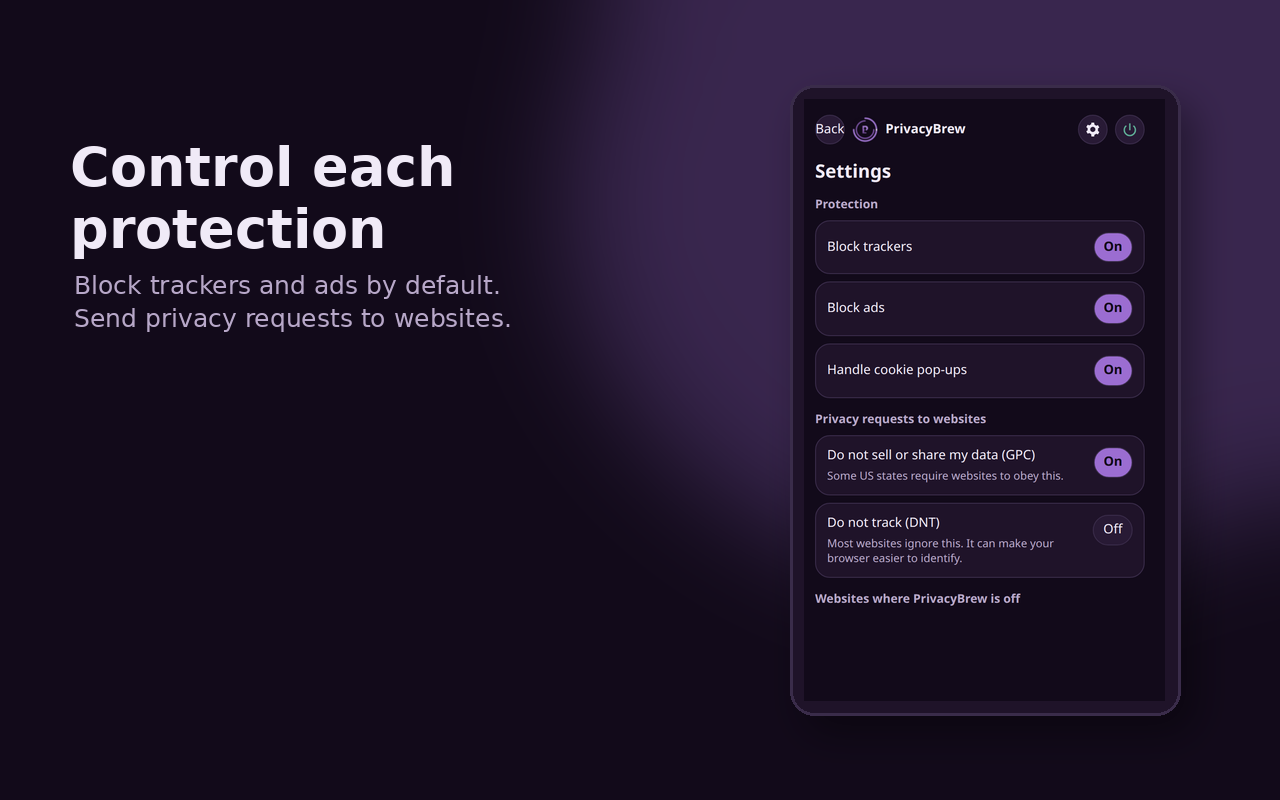
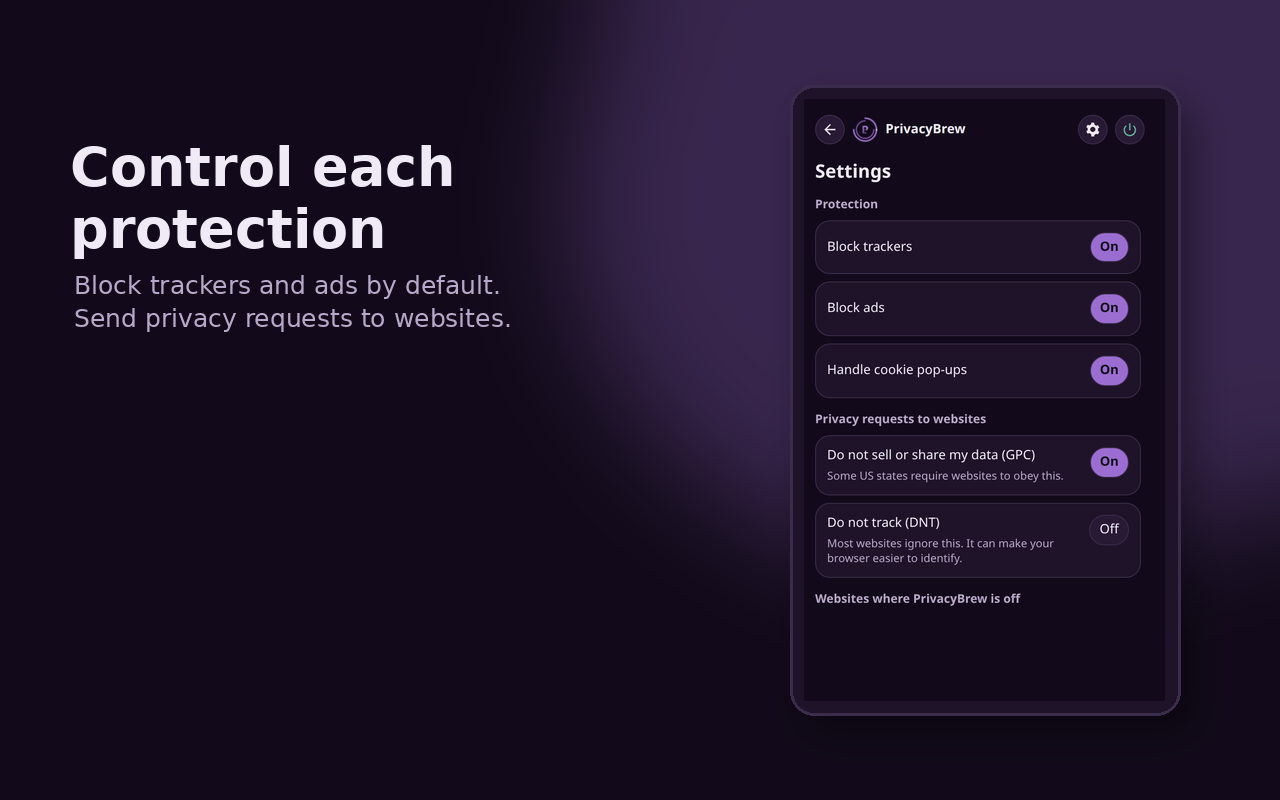
Fix popup layout screenshots and power menu

diff --git a/extension/popup.css b/extension/popup.css
@@ -45,6 +45,9 @@ html, body {
 .status-bar, .wall-banner { display: flex; gap: 8px; align-items: center; margin: 8px 0; padding: 8px; border-radius: 12px; background: var(--panel-2); border: 1px solid var(--border); }
 .wall-banner { border-color: var(--warning); }
 .view { height: 510px; overflow: hidden; }
+#settingsView { overflow: auto; padding-right: 4px; }
+#settingsView::-webkit-scrollbar { width: 8px; }
+#settingsView::-webkit-scrollbar-thumb { background: var(--border); border-radius: 8px; }
 .hero-card, .home-card, .setting-row, .limits, .detail-card { border: 1px solid var(--border); border-radius: 16px; background: var(--panel); padding: 12px; }
 .hero-card { margin: 8px 0; padding: 14px; }
 .hero-card h1 { font-size: 22px; margin: 0 0 4px; overflow: hidden; text-overflow: ellipsis; }
@@ -53,8 +56,8 @@ html, body {
 .status.some { color: var(--accent); }
 .status.high { color: var(--warning); }
 .card-grid { display: grid; grid-template-columns: 1fr 1fr; gap: 8px; }
-.home-card { min-height: 106px; text-align: left; color: var(--text); cursor: pointer; }
-.home-card.wide { grid-column: 1 / -1; min-height: 82px; }
+.home-card { min-height: 112px; text-align: left; color: var(--text); cursor: pointer; }
+.home-card.wide { grid-column: 1 / -1; min-height: 88px; }
 .group-label { display: block; color: var(--text-dim); font-size: 11px; letter-spacing: .05em; text-transform: uppercase; margin-bottom: 3px; }
 .big-number { font-size: 31px; line-height: 1; font-weight: 850; color: var(--text); }
 .big-word { font-size: 16px; font-weight: 750; margin-left: 4px; }
@@ -84,7 +87,28 @@ label { display: block; margin: 14px 0; }
 [hidden] { display: none !important; }
 
 .text-value { font-size: 27px; }
-.app:has(#statusBar:not([hidden])) .home-card { min-height: 94px; }
-.app:has(#wallBanner:not([hidden])) .home-card { min-height: 94px; }
-.app:has(#statusBar:not([hidden])) .home-card.wide, .app:has(#wallBanner:not([hidden])) .home-card.wide { min-height: 68px; }
+.app:has(#statusBar:not([hidden])) .home-card { min-height: 98px; }
+.app:has(#wallBanner:not([hidden])) .home-card { min-height: 98px; }
+.app:has(#statusBar:not([hidden])) .home-card.wide, .app:has(#wallBanner:not([hidden])) .home-card.wide { min-height: 70px; }
 .app:has(#statusBar:not([hidden])) .hero-card, .app:has(#wallBanner:not([hidden])) .hero-card { padding: 10px; margin: 6px 0; }
+.app:has(#statusBar:not([hidden])):has(#wallBanner:not([hidden])) .home-card {
+  min-height: 86px;
+  padding: 9px;
+}
+.app:has(#statusBar:not([hidden])):has(#wallBanner:not([hidden])) .home-card.wide {
+  min-height: 58px;
+}
+.app:has(#statusBar:not([hidden])):has(#wallBanner:not([hidden])) .hero-card {
+  padding: 8px;
+  margin: 5px 0;
+}
+.app:has(#statusBar:not([hidden])):has(#wallBanner:not([hidden])) .privacy-row {
+  margin: 6px 0;
+  padding: 7px;
+}
+.app:has(#statusBar:not([hidden])):has(#wallBanner:not([hidden])) .home-footer {
+  display: none;
+}
+.app:has(#statusBar:not([hidden])):has(#wallBanner:not([hidden])) .privacy-row {
+  display: none;
+}

diff --git a/extension/popup.js b/extension/popup.js
@@ -115,12 +115,14 @@
     text($('homeAdsSub'), `${report.adTrackerCount || 0} ad trackers`);
     text($('homeScriptsNumber'), String(report.outsideScriptCount || 0));
     text($('homeScriptsSub'), `${off ? 0 : (report.outsideScriptBlockedCount || 0)} blocked`);
-    text($('homeCookiesValue'), cookiePopup.status === 'none' ? 'None' : cookiePopup.label.replace(' for you', ''));
+    const cookieWords = { rejected: 'Rejected', hidden: 'Hidden', error: 'Could not handle', none: 'No pop-up' };
+    text($('homeCookiesValue'), cookieWords[cookiePopup.status] || cookiePopup.label || 'No pop-up');
     text($('homeCookiesSub'), `${(report.cookieDomains || []).length} third-party cookie ${plural((report.cookieDomains || []).length, 'website')}`);
     text($('homeFingerprintNumber'), fingerprintCount ? String(fingerprintCount) : 'None');
     text($('homeFingerprintWord'), fingerprintCount ? plural(fingerprintCount, 'method') : '');
     text($('privacyRequestsRow'), `${settings.gpcEnabled ? 'GPC sent' : 'GPC off'} · ${settings.dntEnabled ? 'DNT sent' : 'DNT off'}`);
     $('powerButton').classList.toggle('off', off);
+    text($('sitePowerButton'), report.sitePaused ? 'Turn on on this website' : 'Turn off on this website');
   }
 
   function trackerDetail(report) {
@@ -232,7 +234,9 @@
 
   function renderFeedback() {
     const page = originPath((currentReport && currentReport.url) || '');
-    text($('feedbackPageValue'), page || 'No page address.');
+    const included = $('feedbackPage').checked;
+    text($('feedbackPageValue'), page ? (included ? page : `${page} (not included)`) : 'No page address.');
+    $('feedbackPageValue').classList.toggle('muted', !included);
   }
 
   async function refresh() {
@@ -247,6 +251,7 @@
     for (const button of document.querySelectorAll('[data-detail]')) button.addEventListener('click', () => renderDetail(button.dataset.detail));
     $('settingsButton').addEventListener('click', () => showView('settings'));
     $('feedbackButton').addEventListener('click', () => { renderFeedback(); showView('feedback'); });
+    $('feedbackPage').addEventListener('change', renderFeedback);
     $('backButton').addEventListener('click', () => showView('home'));
     $('privacyRequestsRow').addEventListener('click', () => showView('settings'));
     $('powerButton').addEventListener('click', togglePowerMenu);
@@ -254,6 +259,7 @@
       const submenu = $('forAWhileSubmenu');
       submenu.hidden = !submenu.hidden;
       $('forAWhileButton').setAttribute('aria-expanded', submenu.hidden ? 'false' : 'true');
+      text($('forAWhileButton'), submenu.hidden ? 'Turn off for a while ▸' : 'Turn off for a while ▾');
     });
     document.addEventListener('keydown', (event) => { if (event.key === 'Escape') closePowerMenu(); });
 

diff --git a/extension/popup.html b/extension/popup.html
@@ -9,7 +9,7 @@
 <body>
   <main class="app" aria-live="polite">
     <header class="topbar">
-      <button id="backButton" class="icon-button" type="button" aria-label="Back" hidden>Back</button>
+      <button id="backButton" class="icon-button" type="button" aria-label="Back" title="Back" hidden><svg viewBox="0 0 24 24" aria-hidden="true"><path d="M20 11H7.8l5.6-5.6L12 4 4 12l8 8 1.4-1.4L7.8 13H20v-2Z"/></svg></button>
       <img src="icons/icon-32.png" width="28" height="28" alt="">
       <div class="title-group"><strong>PrivacyBrew</strong></div>
       <button id="settingsButton" class="icon-button" type="button" aria-label="Settings" title="Settings"><svg viewBox="0 0 24 24" aria-hidden="true"><path d="M19.4 13.5c.1-.5.1-1 .1-1.5s0-1-.1-1.5l2-1.5-2-3.5-2.4 1a8 8 0 0 0-2.6-1.5L14 2h-4l-.4 2.5A8 8 0 0 0 7 6L4.6 5l-2 3.5 2 1.5a9 9 0 0 0 0 3l-2 1.5 2 3.5 2.4-1a8 8 0 0 0 2.6 1.5L10 22h4l.4-2.5a8 8 0 0 0 2.6-1.5l2.4 1 2-3.5-2-1.5ZM12 15.5A3.5 3.5 0 1 1 12 8a3.5 3.5 0 0 1 0 7.5Z"/></svg></button>
@@ -17,7 +17,7 @@
     </header>
     <div id="powerMenu" class="menu" hidden>
       <button id="sitePowerButton" type="button">Turn off on this website</button>
-      <button id="forAWhileButton" type="button" aria-expanded="false">Turn off for a while</button>
+      <button id="forAWhileButton" type="button" aria-expanded="false">Turn off for a while ▸</button>
       <div id="forAWhileSubmenu" class="submenu" hidden>
         <button data-temp="15" type="button">15 minutes</button>
         <button data-temp="60" type="button">1 hour</button>

diff --git a/tools/popup_artifacts.py b/tools/popup_artifacts.py
@@ -1,0 +1,98 @@
+#!/usr/bin/env python3
+import base64, contextlib, json, shutil, subprocess, time
+from pathlib import Path
+import websocket
+
+ROOT = Path(__file__).resolve().parents[1]
+EXT = ROOT / 'extension'
+ART = ROOT / 'artifacts'
+ART.mkdir(exist_ok=True)
+
+class CDP:
+    def __init__(self, ws): self.ws = websocket.create_connection(ws, timeout=20); self.i=1
+    def call(self, method, params=None, sessionId=None):
+        msg={'id':self.i,'method':method}; self.i+=1
+        if params is not None: msg['params']=params
+        if sessionId: msg['sessionId']=sessionId
+        self.ws.send(json.dumps(msg))
+        while True:
+            data=json.loads(self.ws.recv())
+            if data.get('id')==msg['id']:
+                if 'error' in data: raise RuntimeError(data['error'])
+                return data.get('result',{})
+
+def launch():
+    prof=ART/'popup-artifacts-profile'; shutil.rmtree(prof, ignore_errors=True); prof.mkdir()
+    proc=subprocess.Popen(['google-chrome','--headless=new','--no-first-run','--no-default-browser-check',f'--user-data-dir={prof}','--remote-debugging-port=0','--remote-allow-origins=*','--enable-unsafe-extension-debugging','--window-size=500,700','about:blank'], stdout=subprocess.DEVNULL, stderr=subprocess.PIPE, text=True)
+    ws=''; end=time.time()+20
+    while time.time()<end:
+        line=proc.stderr.readline()
+        if 'DevTools listening on ' in line: ws=line.split('DevTools listening on ',1)[1].strip(); break
+    cdp=CDP(ws); ext=cdp.call('Extensions.loadUnpacked', {'path': str(EXT)})['id']
+    sw=None
+    for _ in range(50):
+        for t in cdp.call('Target.getTargets')['targetInfos']:
+            if t.get('url','').endswith('/background.js'):
+                sw=cdp.call('Target.attachToTarget', {'targetId':t['targetId'], 'flatten':True})['sessionId']; cdp.call('Runtime.enable', sessionId=sw); break
+        if sw: break
+        time.sleep(.2)
+    return proc, cdp, ext, sw, prof
+
+def attach(cdp,target): return cdp.call('Target.attachToTarget', {'targetId':target,'flatten':True})['sessionId']
+def eval_sw(cdp,sw,expr): return cdp.call('Runtime.evaluate', {'expression':expr,'awaitPromise':True,'returnByValue':True}, sw).get('result',{}).get('value')
+
+def create_state(cdp, sw, tab_id, site='news.example', cookie='none', worst=False):
+    adwall = "PB.Report.setAdWall(s, 'detected');" if worst else ''
+    paused = "{'news.example': true}" if worst else "{}"
+    expr=f"""(async()=>{{
+await ensureData();
+const s=PB.Report.emptyState({tab_id}, 'https://{site}/', '{site}');
+s.status='ok';
+PB.Report.addTracker(s, disconnect.find('www.google-analytics.com'), 'www.google-analytics.com', 'blocked', 'https://www.google-analytics.com/a.js');
+PB.Report.addTracker(s, disconnect.find('static.doubleclick.net'), 'static.doubleclick.net', 'blocked', 'https://static.doubleclick.net/ad.js');
+PB.Report.addTracker(s, disconnect.find('connect.facebook.net'), 'connect.facebook.net', 'blocked', 'https://connect.facebook.net/s.js');
+PB.Report.addTracker(s, disconnect.find('bat.bing.com'), 'bat.bing.com', 'allowed', 'https://bat.bing.com/b.js');
+PB.Report.addAdBlocked(s, 'https://googleads.g.doubleclick.net/pagead/ad.js');
+PB.Report.addOutsideScript(s, 'https://cdn.news.example/story.js', 'allowed');
+PB.Report.addFingerprint(s, 'canvas', 'https://{site}/fp.js');
+PB.Report.addFingerprint(s, 'webgl', 'https://{site}/fp.js');
+PB.Report.addCookie(s, 'static.doubleclick.net');
+if ('{cookie}'==='rejected') PB.Report.setCookiePopup(s, 'rejected', {{cmp:'OneTrust'}});
+{adwall}
+await chrome.storage.session.set({{['tab:{tab_id}']:s}});
+await chrome.storage.local.set({{pausedSites: {paused}}});
+
+return s;
+}})()"""
+    res = cdp.call('Runtime.evaluate', {'expression': expr, 'awaitPromise': True, 'returnByValue': True}, sw)
+    if 'exceptionDetails' in res:
+        raise RuntimeError(res['exceptionDetails'])
+
+def open_popup(cdp, ext, sw, name, action=None, worst=False):
+    target=cdp.call('Target.createTarget', {'url': f'chrome-extension://{ext}/popup.html'})['targetId']; sess=attach(cdp,target); cdp.call('Page.enable', sessionId=sess); cdp.call('Emulation.setDeviceMetricsOverride', {'width':380,'height':580,'deviceScaleFactor':1,'mobile':False}, sess)
+    time.sleep(.5)
+    tab_id = 424242 + (1 if worst else 0)
+    create_state(cdp, sw, tab_id, worst=worst)
+    cdp.call('Page.navigate', {'url': f'chrome-extension://{ext}/popup.html?tabId={tab_id}'}, sess); time.sleep(.8)
+    if action:
+        cdp.call('Runtime.evaluate', {'expression': action}, sess); time.sleep(.5)
+    data=cdp.call('Page.captureScreenshot', {'format':'png'}, sess)['data']
+    (ART/name).write_bytes(base64.b64decode(data))
+    clipped=cdp.call('Runtime.evaluate', {'expression': "[...document.querySelectorAll('body *:not(script):not(style)')].filter(e=>{const r=e.getBoundingClientRect();return r.bottom>580&&!e.closest('.detail-scroll')&&!e.closest('#settingsView')}).length", 'returnByValue':True}, sess)['result'].get('value')
+    print(name, 'clipped=', clipped)
+
+if __name__=='__main__':
+    proc=None; prof=None
+    try:
+        proc,cdp,ext,sw,prof=launch()
+        open_popup(cdp,ext,sw,'pb-ext-home.png')
+        open_popup(cdp,ext,sw,'pb-ext-detail-trackers.png', "document.querySelector('[data-detail=trackers]').click(); setTimeout(()=>{const d=document.querySelector('details'); if(d)d.open=true},50)")
+        open_popup(cdp,ext,sw,'pb-ext-settings.png', "document.querySelector('#settingsButton').click()")
+        open_popup(cdp,ext,sw,'pb-ext-power-menu.png', "document.querySelector('#powerButton').click()")
+        open_popup(cdp,ext,sw,'pb-ext-power-menu-while.png', "document.querySelector('#powerButton').click(); document.querySelector('#forAWhileButton').click()")
+        open_popup(cdp,ext,sw,'pb-ext-feedback.png', "document.querySelector('#feedbackButton').click()")
+        open_popup(cdp,ext,sw,'pb-ext-worst-case.png', worst=True)
+    finally:
+        if proc:
+            with contextlib.suppress(Exception): proc.terminate(); proc.wait(timeout=5)
+        if prof: shutil.rmtree(prof, ignore_errors=True)

diff --git a/tools/store_screenshots.py b/tools/store_screenshots.py
@@ -104,7 +104,7 @@ PB.Report.addAdBlocked(s, 'https://googleads.g.doubleclick.net/pagead/ad.js');
 PB.Report.addOutsideScript(s, 'https://cdn.news.example/story.js', 'allowed');
 PB.Report.addFingerprint(s, 'canvas', 'https://{site}/fingerprint.js'); PB.Report.addFingerprint(s, 'webgl', 'https://{site}/fingerprint.js');
 PB.Report.addCookie(s, 'static.doubleclick.net'); if ('{cookie}'==='rejected') PB.Report.setCookiePopup(s, 'rejected', {{cmp:'OneTrust'}});
-await chrome.storage.session.set({{['tab:{tab_id}']:s}}); await chrome.action.setBadgeText({{tabId:{tab_id}, text:'3'}});}})()'''
+await chrome.storage.session.set({{['tab:{tab_id}']:s}}); }})()'''
     cdp.call('Runtime.evaluate', {'expression': expr, 'awaitPromise': True}, sw)
 
 def popup(cdp, ext, sw, tab_id, mode='home'):
@@ -165,7 +165,7 @@ def main():
     OUT.mkdir(parents=True, exist_ok=True); (ROOT/'artifacts').mkdir(exist_ok=True); server=start_server(); proc=None
     try:
         proc,cdp,ext,sw,profile=launch()
-        news=open_page(cdp,f'http://news.example:{PORT}/'); news_tab=tab_id_for_url(cdp,sw,'http://news.example'); create_state(cdp,sw,news_tab)
+        news=open_page(cdp,f'http://news.example:{PORT}/'); news_tab=424242; create_state(cdp,sw,news_tab)
         report=popup(cdp,ext,sw,news_tab,'home'); controls=popup(cdp,ext,sw,news_tab,'settings'); companies=popup(cdp,ext,sw,news_tab,'companies')
         cdp.call('Runtime.evaluate', {'expression':'setCookiePopupHandling(false)', 'awaitPromise':True}, sw)
         before_s=open_page(cdp,f'http://shop.example:{PORT}/'); before=shot(cdp,before_s)
@@ -177,7 +177,7 @@ def main():
         st=json.loads(seen)
         if st['accepted'] or st['visible']: raise SystemExit('Extension did not handle the fixture banner: '+seen)
         after=shot(cdp,after_s)
-        shop_tab=tab_id_for_url(cdp,sw,'http://shop.example'); create_state(cdp,sw,shop_tab,'shop.example','rejected'); cookie_popup=popup(cdp,ext,sw,shop_tab,'cookies')
+        shop_tab=424243; create_state(cdp,sw,shop_tab,'shop.example','rejected'); cookie_popup=popup(cdp,ext,sw,shop_tab,'cookies')
         slide(OUT/'01-report-card.png','See the privacy story','A plain-language report card for each website.\nTrackers, ads, cookies, and fingerprinting in one place.',report)
         slide(OUT/'02-blocking-controls.png','Control each protection','Block trackers and ads by default.\nSend privacy requests to websites.',controls)
         cookie_slide(OUT/'03-cookie-popups.png',before,after,cookie_popup)
